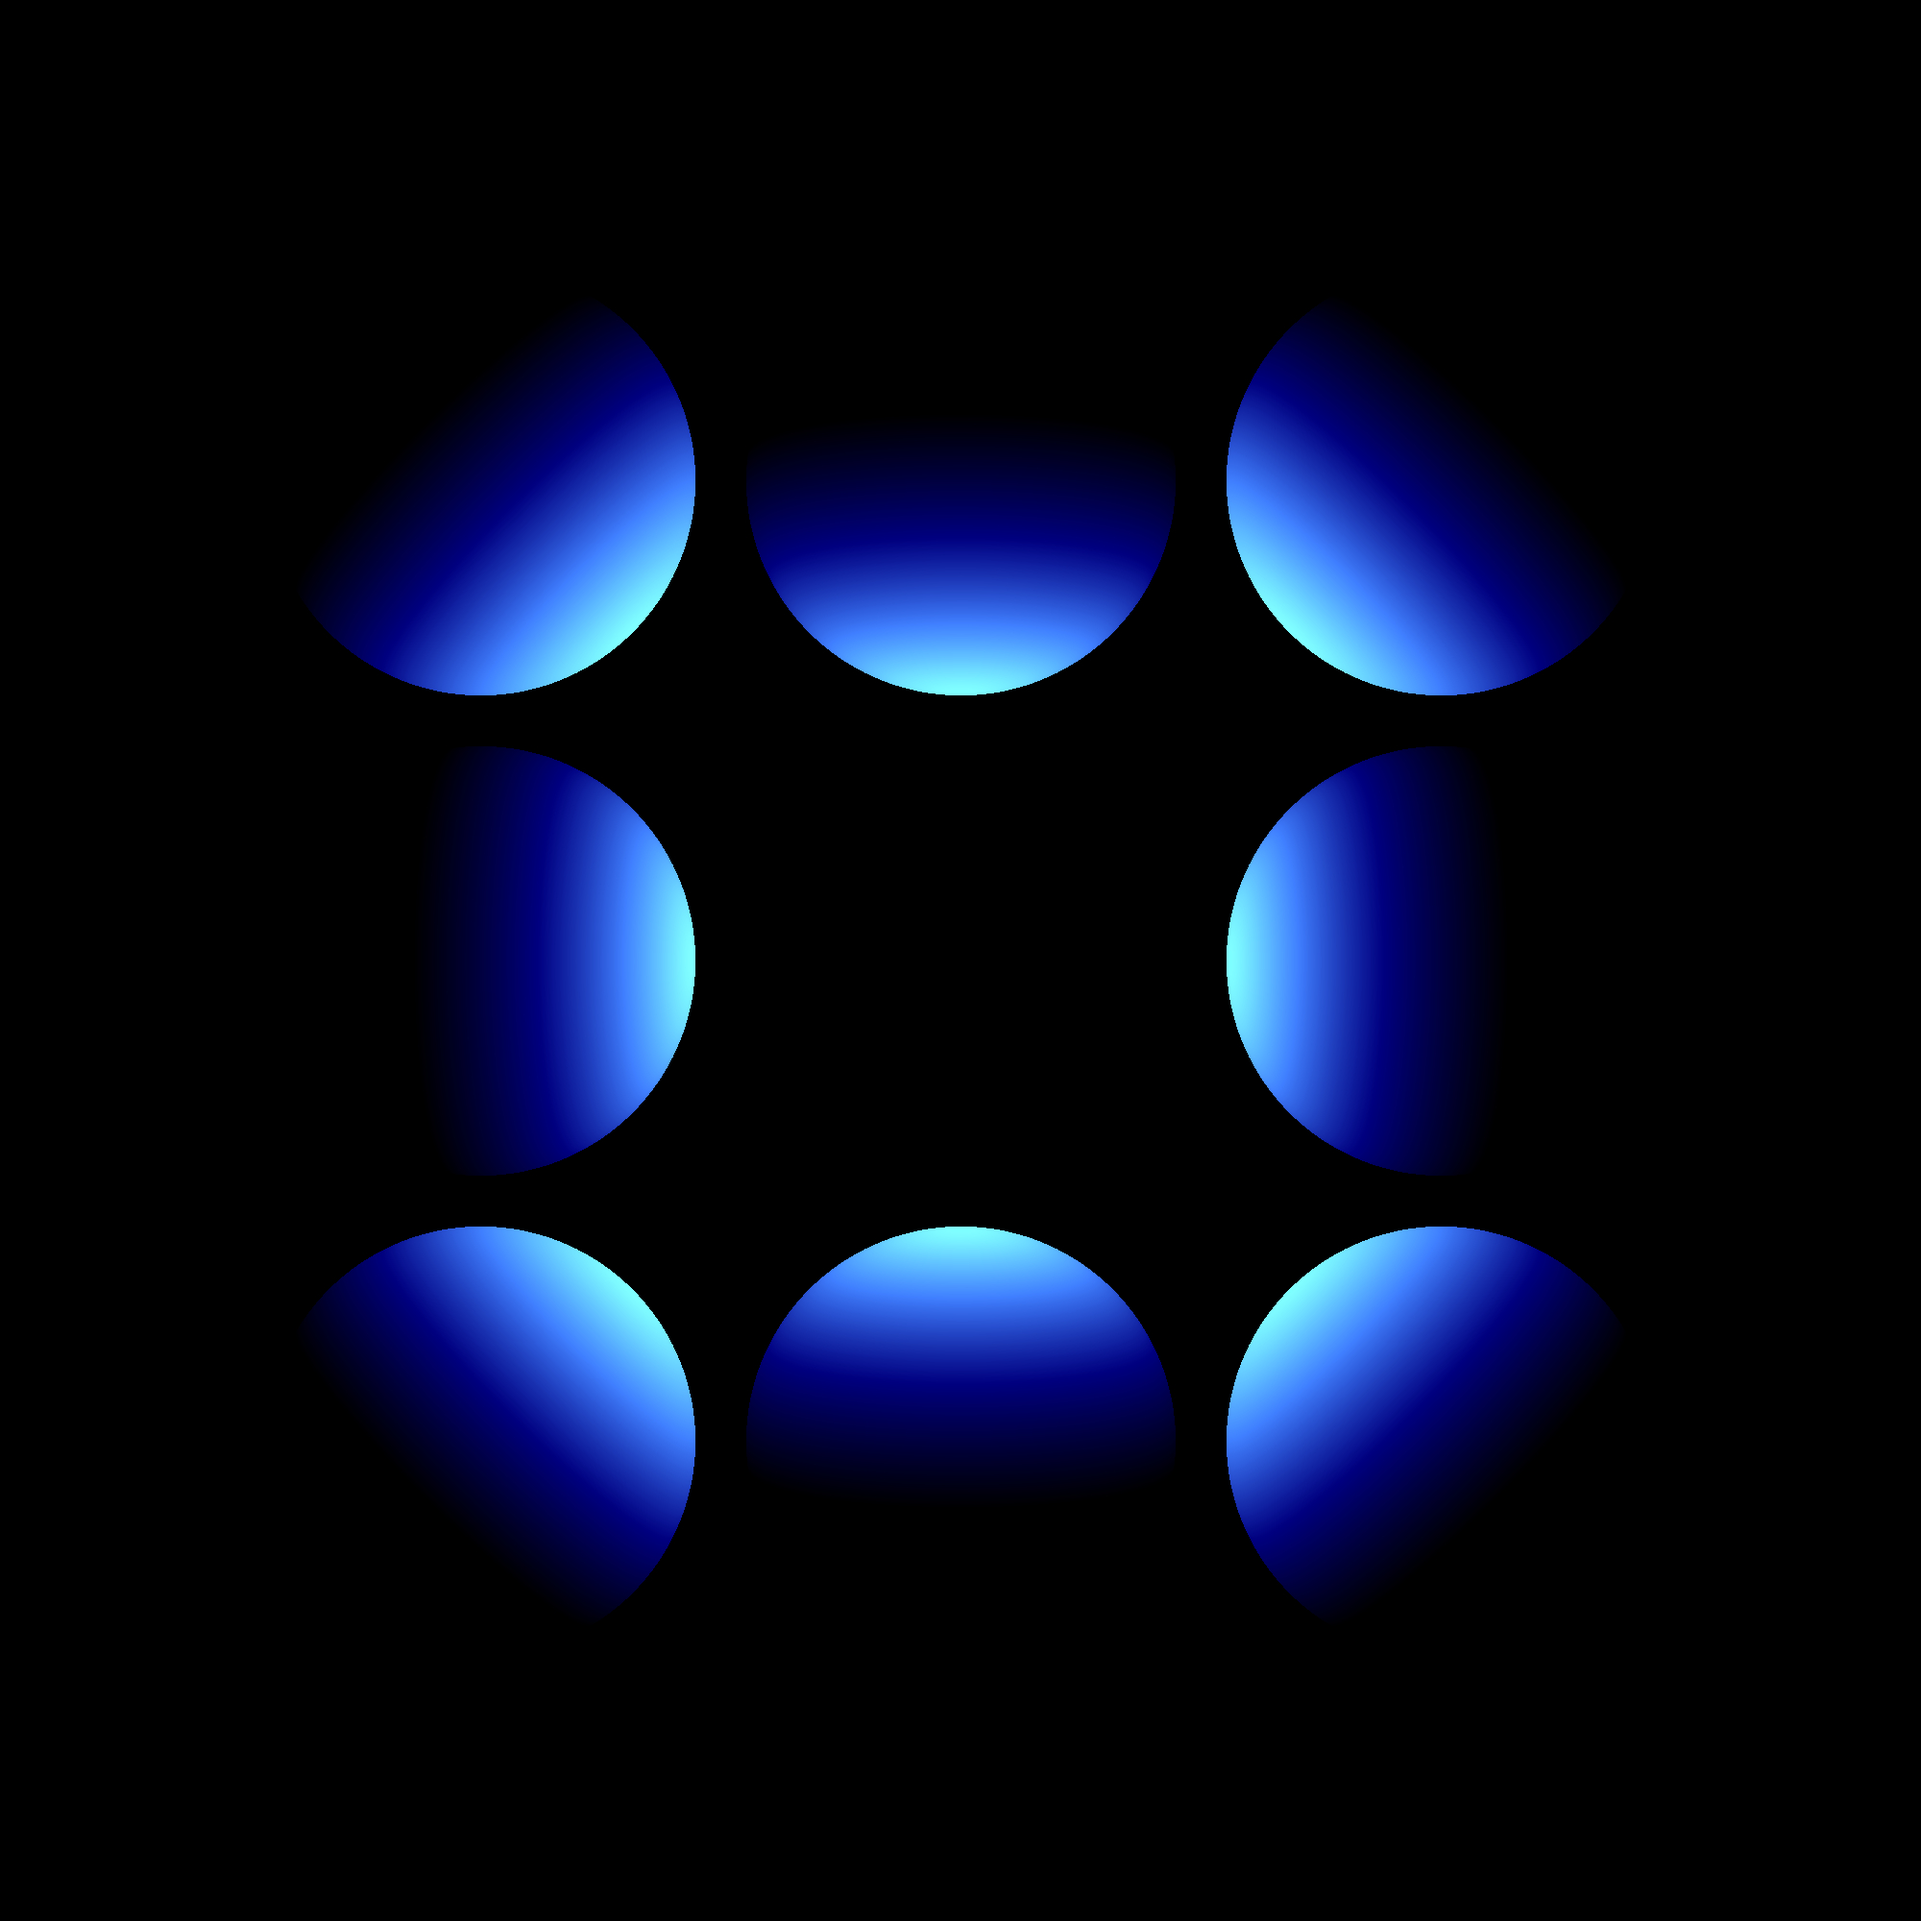
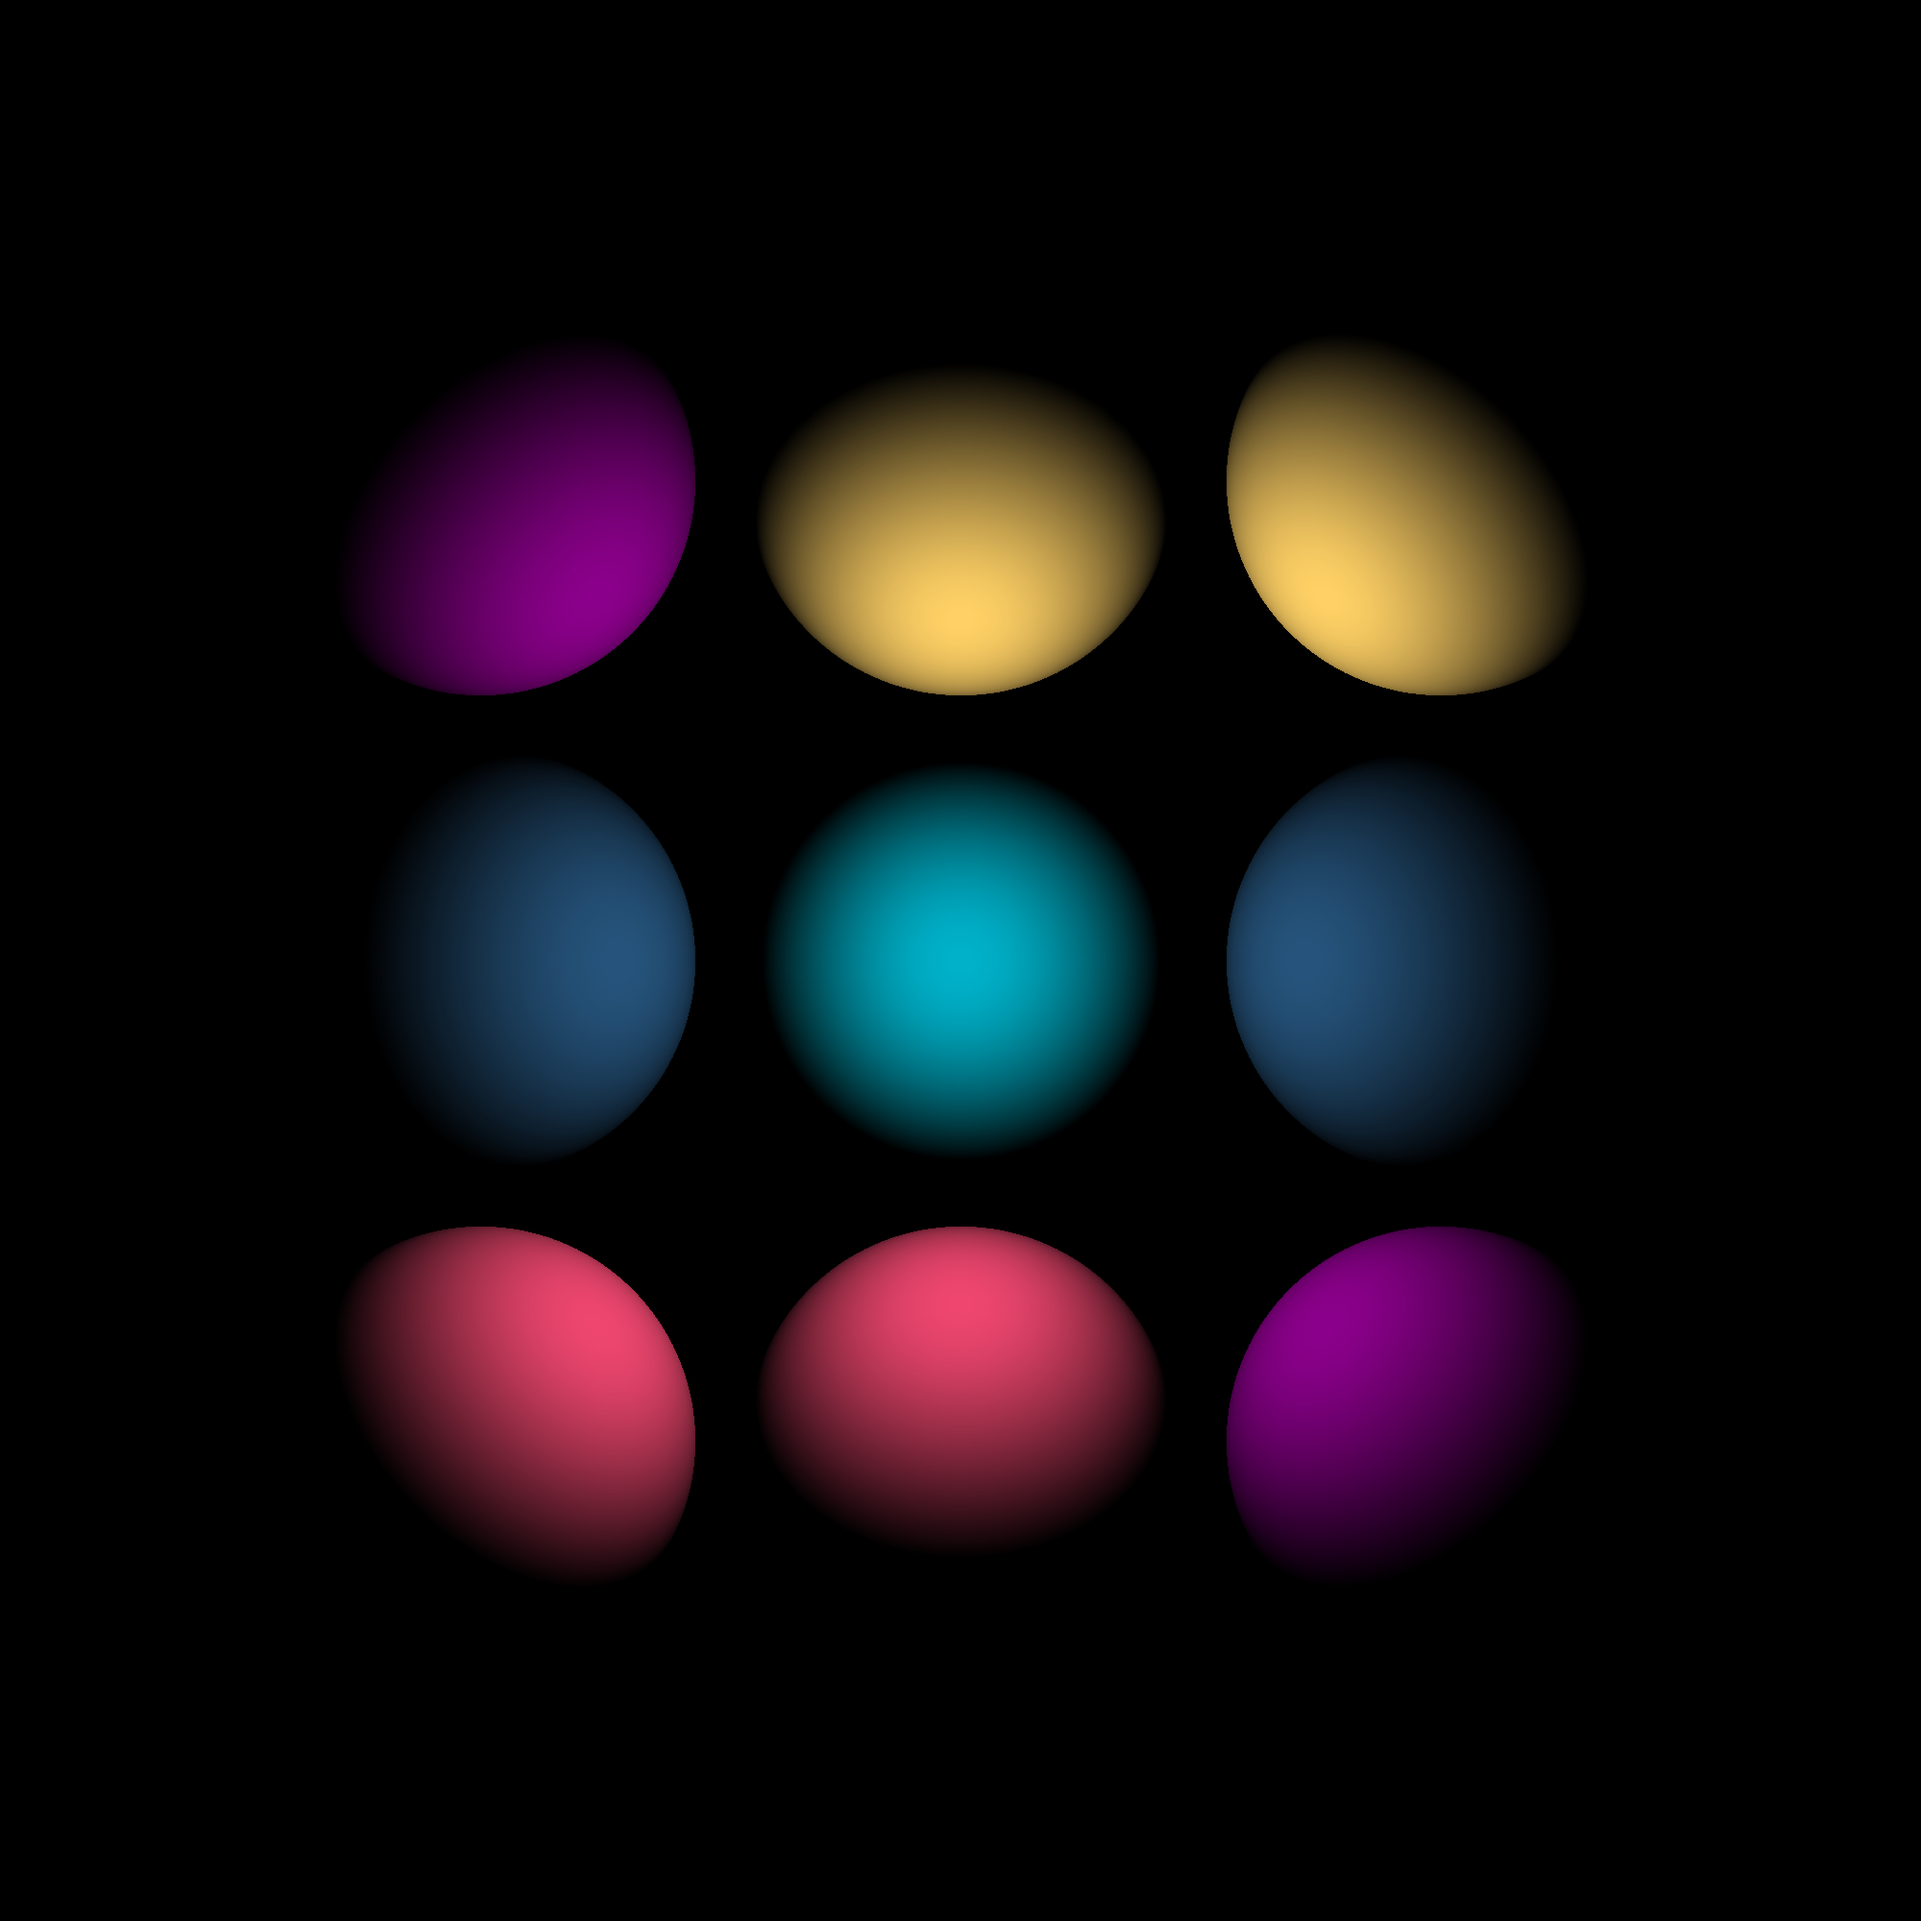
Added color injection on a per object basis allowing for objects to have different reflected colors.

Changed region(s): [[0.155, 0.155, 0.837, 0.837]]

diff --git a/Sources/Include/raytracer/output.hpp b/Sources/Include/raytracer/output.hpp
@@ -25,15 +25,51 @@ namespace raytracer
 
 		object_container container;
 
-		container.emplace_back( std::move( std::make_unique< geometry::object::sphere >( geometry::spatial_vector { RADIUS, RADIUS, RADIUS / MULTIPLIER }, RADIUS * MULTIPLIER ) ) );
-		container.emplace_back( std::move( std::make_unique< geometry::object::sphere >( geometry::spatial_vector { RADIUS * 2, RADIUS, RADIUS / MULTIPLIER }, RADIUS * MULTIPLIER ) ) );
-		container.emplace_back( std::move( std::make_unique< geometry::object::sphere >( geometry::spatial_vector { RADIUS * 3, RADIUS, RADIUS / MULTIPLIER }, RADIUS * MULTIPLIER ) ) );
-		container.emplace_back( std::move( std::make_unique< geometry::object::sphere >( geometry::spatial_vector { RADIUS, RADIUS * 2, RADIUS / MULTIPLIER }, RADIUS * MULTIPLIER ) ) );
-		container.emplace_back( std::move( std::make_unique< geometry::object::sphere >( geometry::spatial_vector { RADIUS * 2, RADIUS * 2, RADIUS / MULTIPLIER }, RADIUS * MULTIPLIER ) ) );
-		container.emplace_back( std::move( std::make_unique< geometry::object::sphere >( geometry::spatial_vector { RADIUS * 3, RADIUS * 2, RADIUS / MULTIPLIER }, RADIUS * MULTIPLIER ) ) );
-		container.emplace_back( std::move( std::make_unique< geometry::object::sphere >( geometry::spatial_vector { RADIUS, RADIUS * 3, RADIUS / MULTIPLIER }, RADIUS * MULTIPLIER ) ) );
-		container.emplace_back( std::move( std::make_unique< geometry::object::sphere >( geometry::spatial_vector { RADIUS * 2, RADIUS * 3, RADIUS / MULTIPLIER }, RADIUS * MULTIPLIER ) ) );
-		container.emplace_back( std::move( std::make_unique< geometry::object::sphere >( geometry::spatial_vector { RADIUS * 3, RADIUS * 3, RADIUS / MULTIPLIER }, RADIUS * MULTIPLIER ) ) );
+		container.emplace_back(
+			std::make_shared< geometry::object::sphere >(
+				geometry::spatial_vector { RADIUS, RADIUS, RADIUS / MULTIPLIER },
+				RADIUS * MULTIPLIER,
+				image::rgb_container { 139, 0, 139 } ) );
+		container.emplace_back(
+			std::make_shared< geometry::object::sphere >(
+				geometry::spatial_vector { RADIUS * 2, RADIUS, RADIUS / MULTIPLIER },
+				RADIUS * MULTIPLIER,
+				image::rgb_container { 38, 84, 124 } ) );
+		container.emplace_back(
+			std::make_shared< geometry::object::sphere >(
+				geometry::spatial_vector { RADIUS * 3, RADIUS, RADIUS / MULTIPLIER },
+				RADIUS * MULTIPLIER,
+				image::rgb_container { 239, 71, 111 } ) );
+		container.emplace_back(
+			std::make_shared< geometry::object::sphere >(
+				geometry::spatial_vector { RADIUS, RADIUS * 2, RADIUS / MULTIPLIER },
+				RADIUS * MULTIPLIER,
+				image::rgb_container { 255, 209, 102 } ) );
+		container.emplace_back(
+			std::make_shared< geometry::object::sphere >(
+				geometry::spatial_vector { RADIUS * 2, RADIUS * 2, RADIUS / MULTIPLIER },
+				RADIUS * MULTIPLIER,
+				image::rgb_container { 0, 178, 202 } ) );
+		container.emplace_back(
+			std::make_shared< geometry::object::sphere >(
+				geometry::spatial_vector { RADIUS * 3, RADIUS * 2, RADIUS / MULTIPLIER },
+				RADIUS * MULTIPLIER,
+				image::rgb_container { 239, 71, 111 } ) );
+		container.emplace_back(
+			std::make_shared< geometry::object::sphere >(
+				geometry::spatial_vector { RADIUS, RADIUS * 3, RADIUS / MULTIPLIER },
+				RADIUS * MULTIPLIER,
+				image::rgb_container { 255, 209, 102 } ) );
+		container.emplace_back(
+			std::make_shared< geometry::object::sphere >(
+				geometry::spatial_vector { RADIUS * 2, RADIUS * 3, RADIUS / MULTIPLIER },
+				RADIUS * MULTIPLIER,
+				image::rgb_container { 38, 84, 124 } ) );
+		container.emplace_back(
+			std::make_shared< geometry::object::sphere >(
+				geometry::spatial_vector { RADIUS * 3, RADIUS * 3, RADIUS / MULTIPLIER },
+				RADIUS * MULTIPLIER,
+				image::rgb_container { 139, 0, 139 } ) );
 
 		return container;
 	}

diff --git a/Sources/Include/raytracer/raytracer.hpp b/Sources/Include/raytracer/raytracer.hpp
@@ -21,14 +21,14 @@
 namespace raytracer
 {
 	using vector_container = image::rgb_image;
-	using object_container = std::vector< std::unique_ptr< geometry::object::object > >;
+	using object_container = std::vector< std::shared_ptr< geometry::object::object > >;
 
 	vector_container generate_image(
 		const vector_container::size_type rows,
 		const vector_container::size_type columns,
 		const object_container& objects )
 	{
-		const geometry::spatial_vector light { rows / 2.0, columns / 2.0, 100.0 };
+		const geometry::spatial_vector light { rows / 2.0, columns / 2.0, 600.0 };
 
 		vector_container elements( rows, columns );
 
@@ -60,9 +60,15 @@ namespace raytracer
 								std::end( light_from_intersection ),
 								std::begin( normal ),
 								vector_type() );
-					}
 
-					elements[row][column] = value_map::color_map( object->get_channels(), value );
+						elements[row][column] = value_map::color_map( object->get_channels(), value );
+
+						break;
+					}
+					else
+					{
+						elements[row][column] = { 0, 0, 0 };
+					}
 				}
 			}
 		}

diff --git a/Sources/Include/raytracer/geometry/object/sphere.hpp b/Sources/Include/raytracer/geometry/object/sphere.hpp
@@ -22,9 +22,11 @@ namespace raytracer::geometry::object
 		template< typename SpatialVector >
 		sphere(
 			SpatialVector&& center,
-			vector_type radius ) :
+			vector_type radius,
+			image::rgb_container channels ) :
 			center( std::forward< SpatialVector >( center ) ),
-			radius( radius )
+			radius( radius ),
+			channels( channels )
 		{
 		}
 
@@ -93,7 +95,6 @@ namespace raytracer::geometry::object
 	private:
 		spatial_vector center;
 		vector_type radius;
-
-		image::rgb_container channels { 139, 0, 139 };
+		image::rgb_container channels;
 	};
 }

diff --git a/README.md b/README.md
@@ -5,9 +5,13 @@ A basic CPU RayTracer written in C++.
 
 Screenshot
 ================
-Output image showing how light is traced and intersected by spheres at different locations (radially outwards).
+Output image showing how light is traced and intersected by spheres of different colors at different locations (radially outwards).
 
 ![Output Screenshot](Resources/output.jpg)
+
+Output image showing similar setup with point light in top right corner.
+
+![Output Screenshot](Resources/output_angled.jpg)
 
 About
 ------------------
